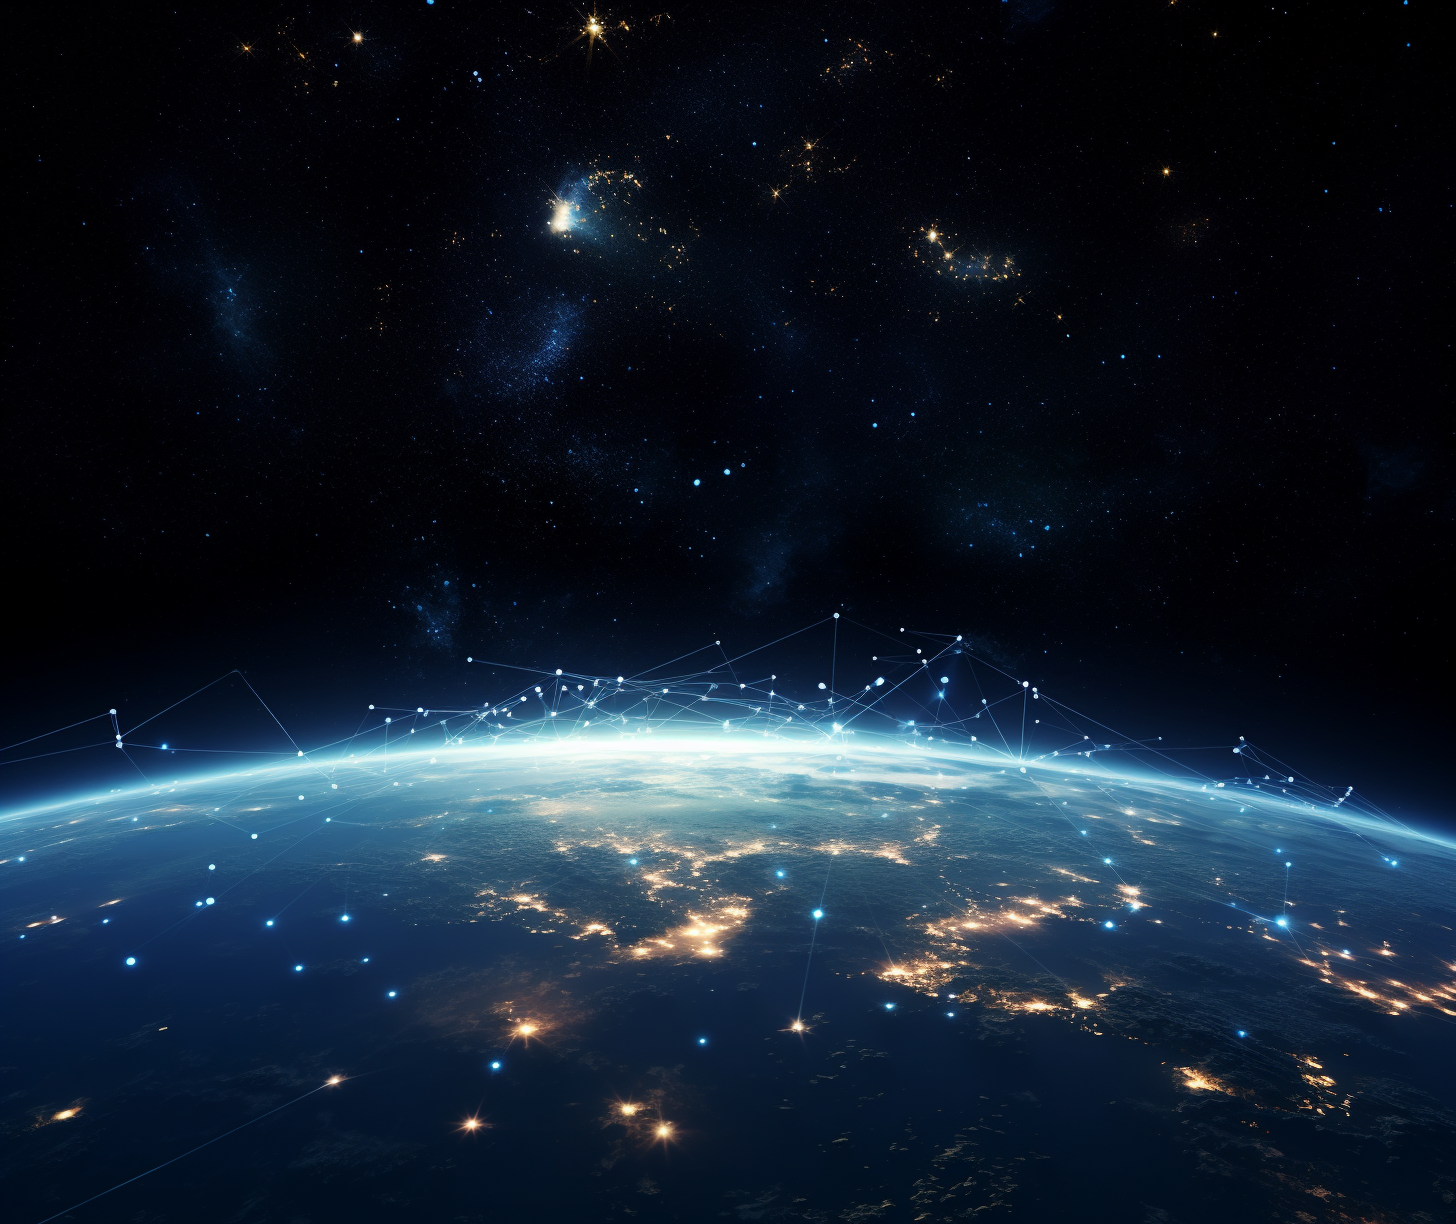
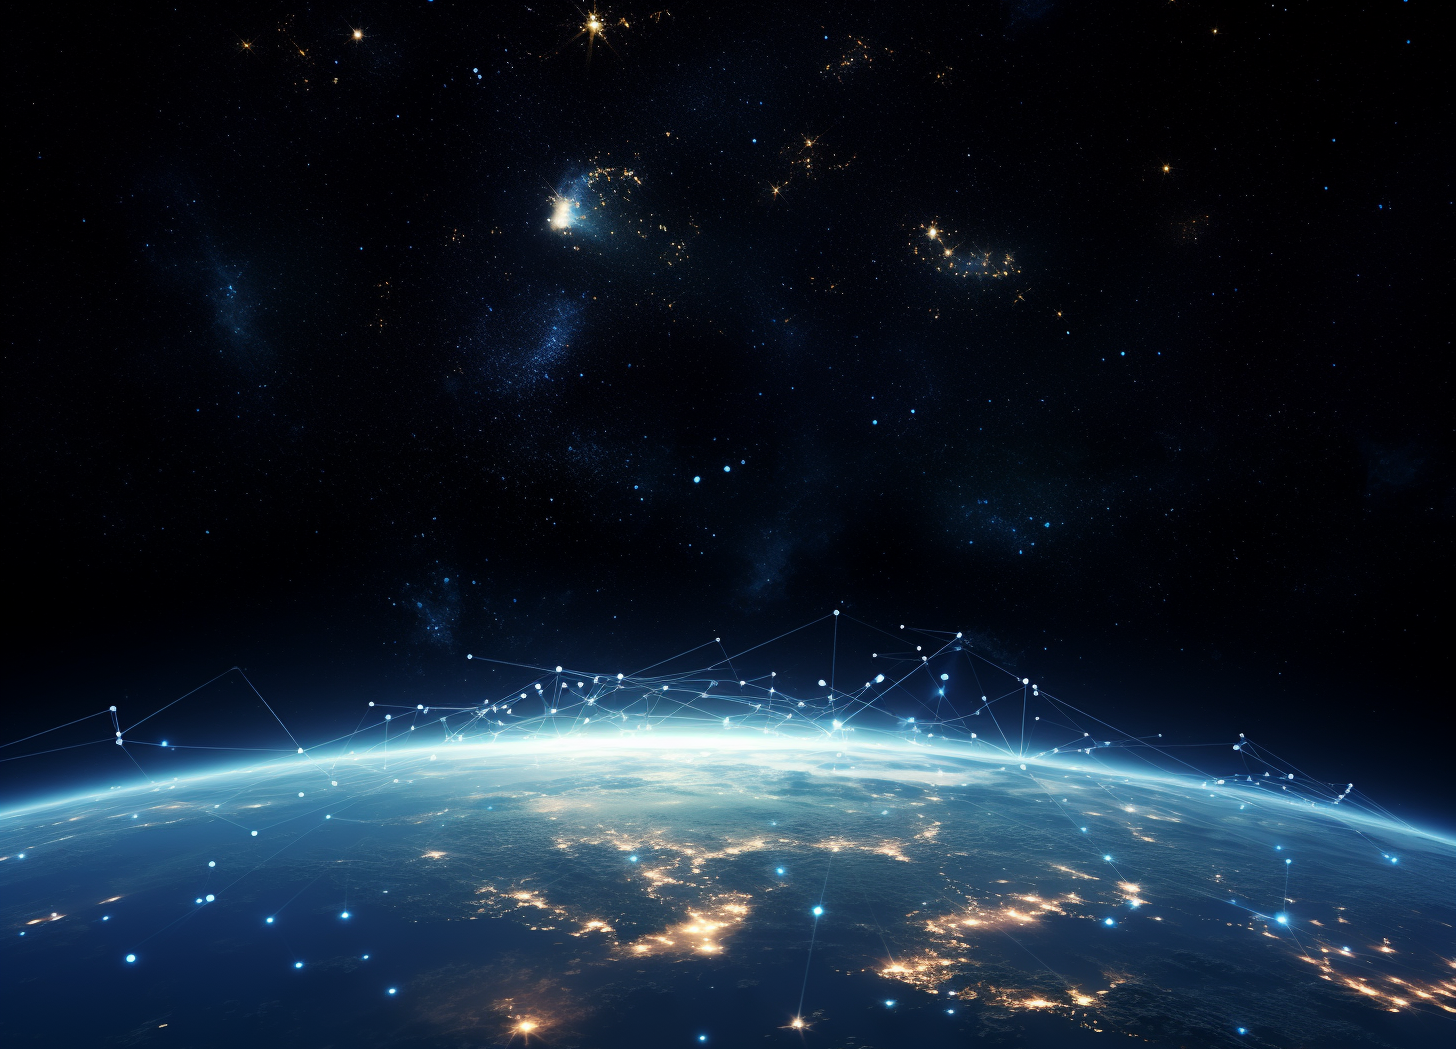
change background and margin

diff --git a/src/App.tsx b/src/App.tsx
@@ -86,7 +86,7 @@ function App() {
         <img
           src="/globe.png"
           alt=""
-          className="absolute top-0 -bottom-96 -mb-96 object-cover h-full -z-50 md:scale-[200%]"
+          className="absolute top-0 bottom-0 object-cover h-full -z-50 md:scale-[200%]"
           // 2xl:scale-100 2xl:-mt-40  3xl:-mt-56"
           // style={{ height: "calc(100% + 11rem)" }}
         />
